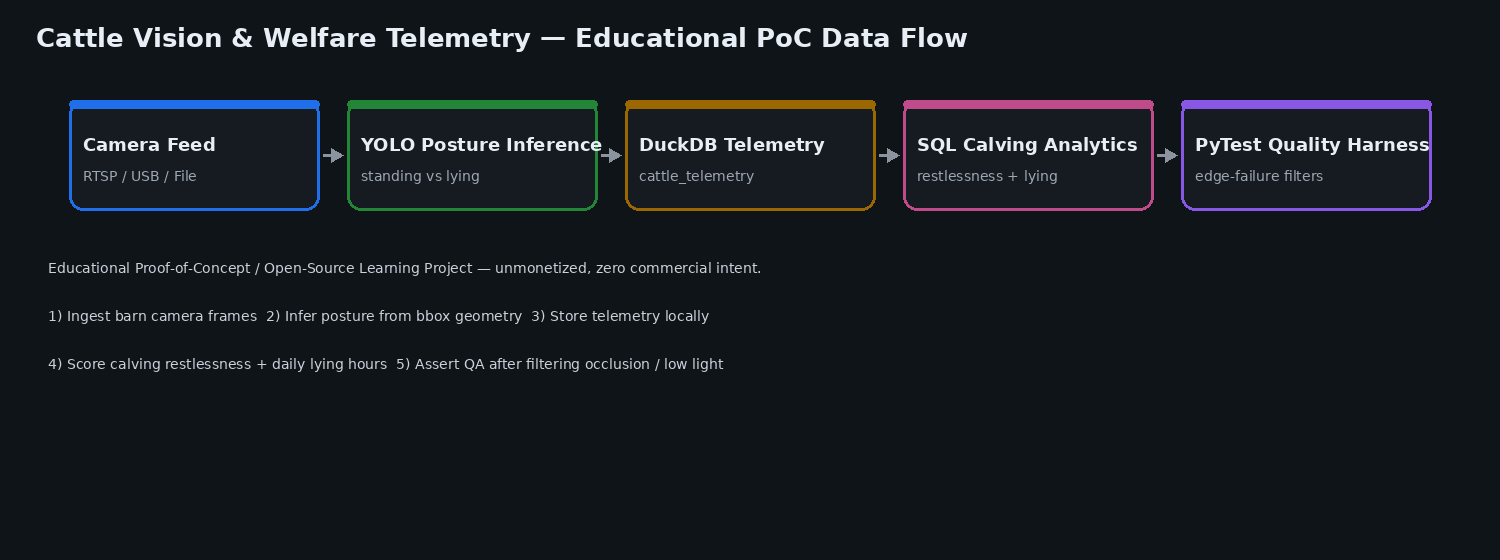
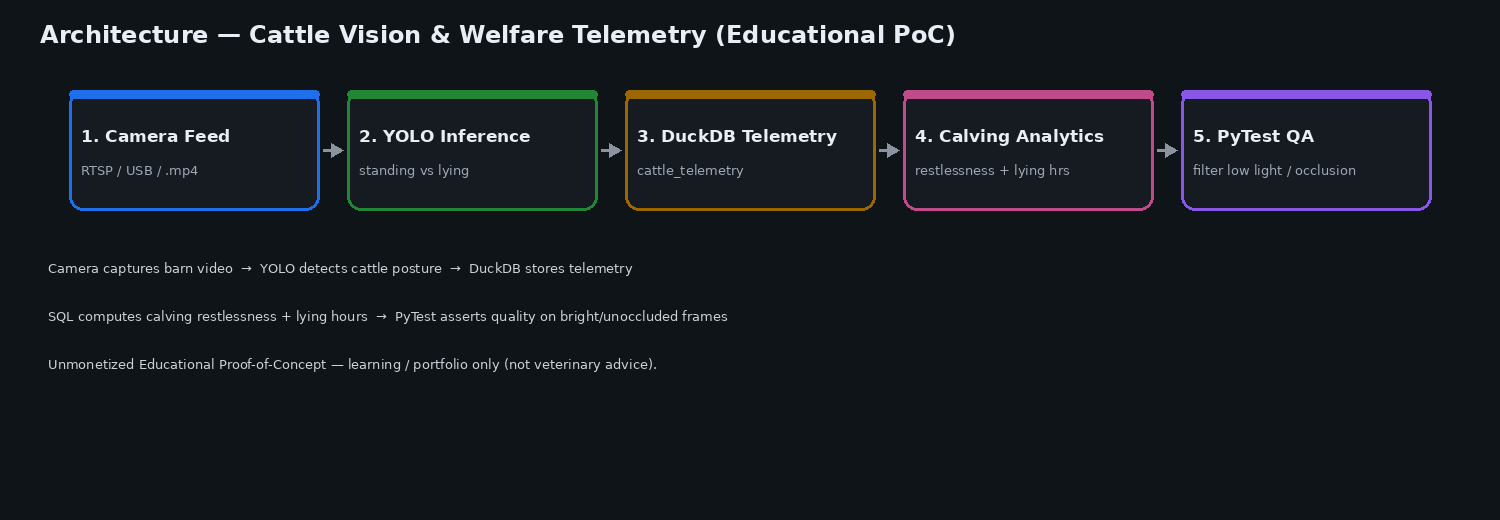
Update hero image and fix architecture diagram rendering (#8)
Replace the README hero with a cattle-welfare branding banner and keep
architecture as a separate PNG (remove Mermaid source that GitHub Mobile
shows as code).

diff --git a/README.md b/README.md
@@ -2,8 +2,8 @@
 
 <p align="center">
   <img
-    src="docs/assets/hero-livestock-vision.jpg"
-    alt="Cattle Vision & Welfare Telemetry Engine — Educational MLOps Proof-of-Concept hero banner"
+    src="docs/assets/hero-cattle-welfare.jpg"
+    alt="Cattle Vision and Welfare Telemetry — Educational Open-Source Learning Project hero: barn camera monitoring cattle with standing and lying detections"
     width="100%"
   />
 </p>
@@ -18,43 +18,29 @@
 
 ---
 
-## Hero Architecture Diagram
+## Architecture
+
+Data flow for this educational portfolio (renders as an image on GitHub Mobile — no Mermaid source block):
 
 <p align="center">
   <img
     src="docs/assets/architecture-sequence.png"
-    alt="Architecture: Camera Feed to YOLO Posture Inference to DuckDB Telemetry to SQL Calving Analytics to PyTest Quality Harness"
+    alt="Architecture diagram: Camera Feed to YOLO Inference to DuckDB Telemetry to Calving Analytics to PyTest QA"
     width="100%"
   />
 </p>
-
-```mermaid
-sequenceDiagram
-    participant Cam as Camera Feed
-    participant YOLO as YOLO Posture Inference
-    participant DB as DuckDB Telemetry
-    participant SQL as SQL Calving Analytics
-    participant QA as PyTest Quality Harness
-
-    Cam->>YOLO: RTSP USB or MP4 frames at about 1 FPS
-    YOLO->>DB: Insert cattle_telemetry rows
-    Note over YOLO,DB: standing or lying, lighting, occlusion, camera_source
-    DB->>SQL: Restlessness score, lying hours, edge failures
-    SQL->>QA: Filtered bright unoccluded rows
-    QA->>QA: Assert schema and confidence benchmarks
-```
 
 ```text
 Camera Feed (RTSP / USB / .mp4)
         |
         v
-YOLO Posture Inference (cattle filter + standing/lying)
+YOLO Posture Inference (cattle filter + standing / lying)
         |
         v
 DuckDB Telemetry (livestock_analytics.duckdb / cattle_telemetry)
         |
         v
-SQL Calving Analytics (restlessness + lying + edge failures)
+SQL Calving Analytics (restlessness + lying hours + edge failures)
         |
         v
 PyTest Quality Harness (filter occlusion / low light)
